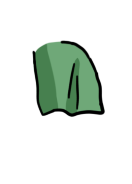
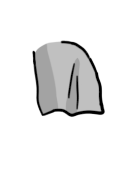
Caméra suivant le joueur + recoloration

Changed region(s): [[0.2424, 0.2174, 0.7879, 0.625]]

diff --git a/League of Losers/Assets/Scripts/PlayerColor.cs b/League of Losers/Assets/Scripts/PlayerColor.cs
@@ -5,25 +5,64 @@ using System.Collections;
  * Script démontrant comment recolorer des éléments d'un personnage et l'échange d'un des éléments le composant.
  */
 public class PlayerColor : MonoBehaviour {
-    private Color color;
-    private static System.Random rnd;
-    private static int i=0;
-    
-	void Start () {
-        if (rnd == null)
-            rnd = new System.Random();
+	void Awake () {
+        PhotonPlayer owner = null;
+        PhotonView m_PhotonView;
         
-        float r = rnd.Next(1000)/(float)1000;
-        float g = rnd.Next(1000)/(float)1000;
-        float b = rnd.Next(1000)/(float)1000;
-        color = new Color(r, g, b, 1);
+        // récupère l'ID du joueur
+        m_PhotonView = GetComponent<PhotonView>();
         
-        // recolore le joueur
-	    Transform leg = getChildByName(transform, "ClassicLegF1");
-        SpriteRenderer spriteRndr = leg.GetComponent<SpriteRenderer>();
-        spriteRndr.color = color;
+        foreach (var player in PhotonNetwork.playerList)
+            if (player.ID == m_PhotonView.ownerId)
+                owner = player;
+        if (owner == null)
+        {
+            Debug.Log("Couldn't find PhotonPlayer !");
+            return;
+        }
         
-        // --- just for the lolz : met l'image de chevelure à la place d'une partie du vêtement de l'archer ---
+        Color col;
+        if (owner.customProperties.ContainsKey("Couleur"))
+        //if (true)
+        {
+            col = (Color) owner.customProperties["Couleur"];
+            //col = Color.yellow;
+            Color colClothes = Color.white;
+            Color colHair = Color.white;
+            Color colSkin = Color.white;
+            
+            if (col == Color.green)
+            {
+                // couleur normale
+                colClothes = new Color(110/255f, 220/255f, 110/255f, 1);
+            }
+            else if (col == Color.red)
+            {
+                colHair = new Color(100/255f, 80/255f, 40/255f, 1);
+                colClothes = new Color(1, 30/255f, 20/255f, 1);
+            }
+            else if (col == Color.blue)
+            {
+                colHair = new Color(1, 200/255f, 90/255f, 1);
+                colClothes = new Color(130/255f, 160/255f, 1, 1);
+            }
+            else if (col == Color.yellow)
+            {
+                colHair = new Color(140/255f, 80/255f, 0, 1);
+                colClothes = new Color(200/255f, 200/255f, 0, 1);
+            }
+            
+            // recolore le joueur
+            transform.GetComponent<Spriter2UnityDX.EntityRenderer>().Color = colSkin;
+            getChildByName(transform, "ClassicLegF1").GetComponent<SpriteRenderer>().color = colClothes;
+            getChildByName(transform, "ClassicLegB1").GetComponent<SpriteRenderer>().color = colClothes;
+            getChildByName(transform, "ClassicPelvis").GetComponent<SpriteRenderer>().color = colClothes;
+            getChildByName(transform, "ClassicHead").GetComponent<SpriteRenderer>().color = colHair;
+            getChildByName(transform, "ClassicHair").GetComponent<SpriteRenderer>().color = colHair;
+        }
+        
+        /*
+        // exemple de changement de sprite
         
         i++;
         switch (i)
@@ -35,11 +74,7 @@ public class PlayerColor : MonoBehaviour {
                 spriteRndr.sprite = (Sprite) (Resources.Load("Bowman/Art/Bowman CharMaps/Classic/ClassicArrows", typeof(Sprite)) as Sprite);
                 break;
         }
-	}
-	
-	// Update is called once per frame
-	void Update () {
-	
+        */
 	}
     
     Transform getChildByName(Transform obj, string name)

diff --git a/League of Losers/Assets/Scripts/CameraFollowGameobject.cs b/League of Losers/Assets/Scripts/CameraFollowGameobject.cs
@@ -1,0 +1,47 @@
+using UnityEngine;
+using System.Collections;
+
+public class CameraFollowGameobject : MonoBehaviour {
+    
+    public static GameObject target;
+    private BoxCollider2D bounds;
+    public float yOffset=.5f;
+    public float catchupSpeed=10f;
+    private float originalX;
+    private float originalY;
+
+    // Use this for initialization
+    void Start () {
+        originalX = transform.position.x;
+        originalY = transform.position.y;
+        bounds = GetComponent<BoxCollider2D>();
+    }
+    
+    // Update is called once per frame
+    void Update () {
+        if (target != null)
+        {
+            float targetX = target.transform.position.x;
+            float targetY = target.transform.position.y + yOffset;
+            float curX = transform.position.x;
+            float curY = transform.position.y;
+            
+            if (bounds != null)
+            {
+                float maxNegX = originalX - bounds.size.x/2 + bounds.offset.x;
+                float maxNegY = originalY - bounds.size.y/2 + bounds.offset.y;
+                float maxX = originalX + bounds.size.x/2 + bounds.offset.x;
+                float maxY = originalY + bounds.size.y/2 + bounds.offset.y;
+                targetX = (targetX < maxNegX) ? maxNegX : targetX;
+                targetX = (targetX > maxX) ? maxX : targetX;
+                targetY = (targetY < maxNegY) ? maxNegY : targetY;
+                targetY = (targetY > maxY) ? maxY : targetY;
+            }
+            
+            float diffX = targetX - curX;
+            float diffY = targetY - curY;
+            
+            transform.position = new Vector3(curX + diffX/catchupSpeed, curY + diffY/catchupSpeed, transform.position.z);
+        }
+    }
+}

diff --git a/League of Losers/Assets/Scripts/Version finale/Arene/connexionArene.cs b/League of Losers/Assets/Scripts/Version finale/Arene/connexionArene.cs
@@ -25,14 +25,12 @@ public class connexionArene : MonoBehaviour {
                 
             case 1:
                 {
-                    Debug.Log("INSTANCIATION 1");
                    GameObject playerObj = PhotonNetwork.Instantiate(playerPrefabName, spawnPoint1.transform.position, spawnPoint1.transform.rotation, 0); //Instancie le joueur quand il arrive dans la pièce
                    playerObj.GetComponent<PlayerControllerScript>().m_RespawnPoint = spawnPoint1;
                 }
                 break;
             case 2:
                 {
-                    Debug.Log("INSTANCIATION 2");
                     GameObject playerObj = PhotonNetwork.Instantiate(playerPrefabName, spawnPoint2.transform.position, spawnPoint2.transform.rotation, 0); //Instancie le joueur quand il arrive dans la pièce
                     playerObj.GetComponent<PlayerControllerScript>().m_RespawnPoint = spawnPoint2;
                 }
@@ -59,7 +57,7 @@ public class connexionArene : MonoBehaviour {
 	// Update is called once per frame
 	void Update () {
 	    hackCounter++;
-        if (hackCounter == 1500)
+        if (hackCounter == 60)
         {
             DoInstanciation();
         }

diff --git a/League of Losers/Assets/Scripts/Version finale/gameConfig/roomConfig.cs b/League of Losers/Assets/Scripts/Version finale/gameConfig/roomConfig.cs
@@ -38,10 +38,10 @@ public class roomConfig : Photon.MonoBehaviour {
     private int idClasseJoueur = 1;
 
     //Id des couleurs pour les joueurs
-    private const int couleurVert = 1;
-    private const int couleurRouge = 2;
-    private const int couleurBleu = 3;
-    private const int couleurJaune = 4;
+    public const int couleurVert = 1;
+    public const int couleurRouge = 2;
+    public const int couleurBleu = 3;
+    public const int couleurJaune = 4;
     int couleurActuelle =0;
 
     private int numeroJoueur = 0;

diff --git a/League of Losers/Assets/Scripts/RechercheLobby.cs b/League of Losers/Assets/Scripts/RechercheLobby.cs
@@ -194,6 +194,7 @@ public class RechercheLobby : MonoBehaviour
         
         GameObject playerObj = PhotonNetwork.Instantiate("Bowman", SpawnSpot.transform.position, SpawnSpot.transform.rotation, 0);
         playerObj.GetComponent<PlayerControllerScript>().m_RespawnPoint = SpawnSpot;
+        CameraFollowGameobject.target = playerObj;
     }
 
 
